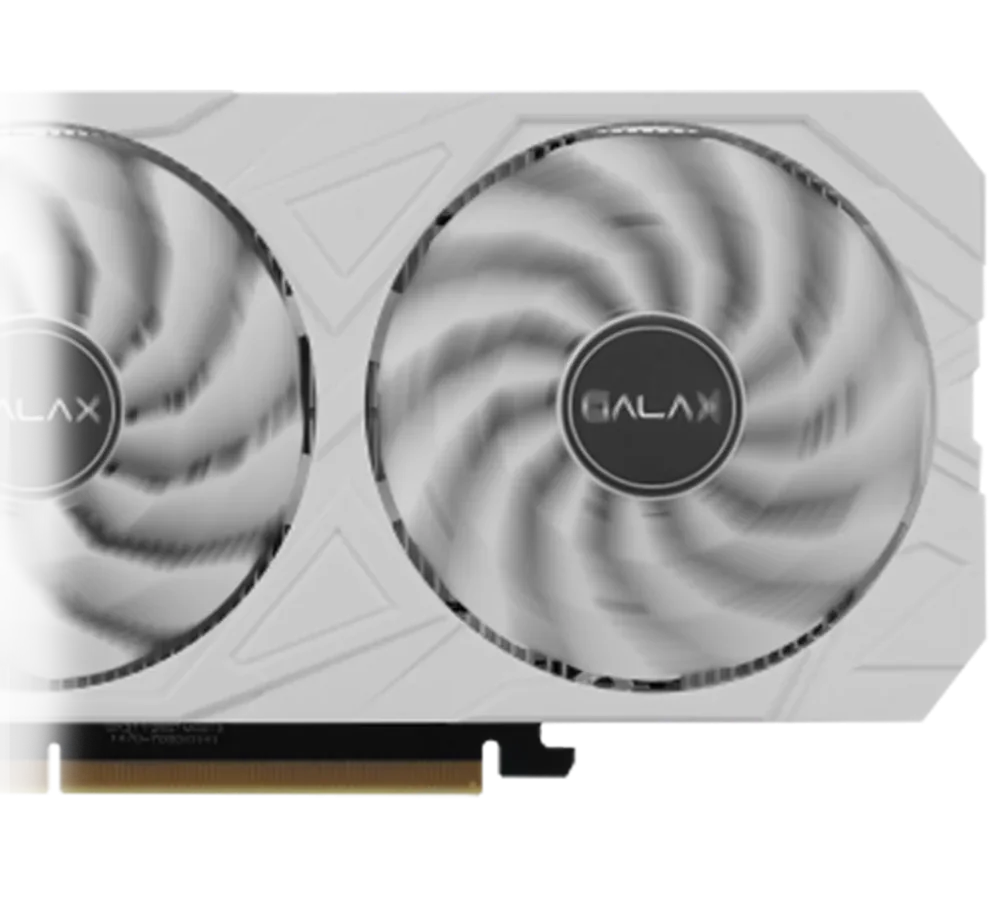
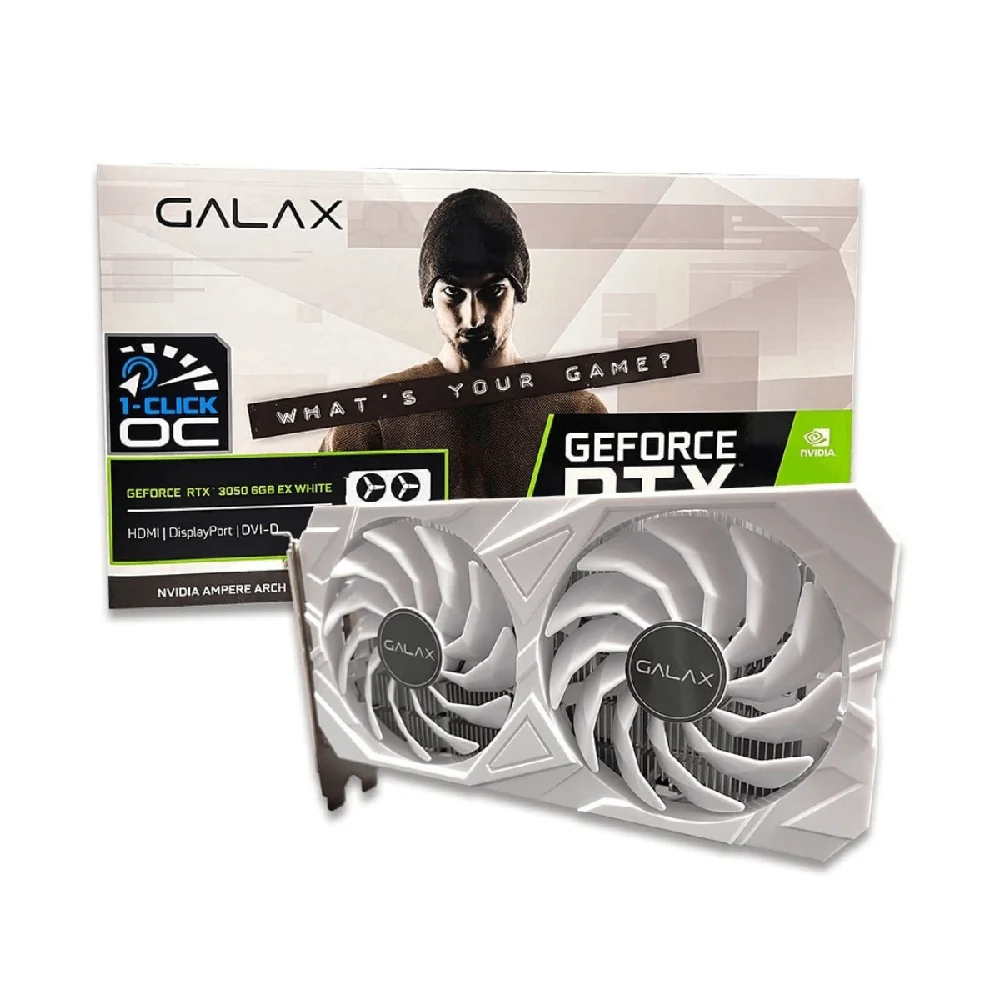
Use full gpu-001 product photo

diff --git a/PROJECT_STATUS.md b/PROJECT_STATUS.md
@@ -465,3 +465,8 @@ After owner review, continue with photos for other categories. Laptops after com
 После визуальной проверки заменены четыре широких промо-баннера видеокарт (gpu-001, gpu-002, gpu-004, gpu-006) на полноразмерные изображения точных моделей. Для gpu-002 использован точный снимок SE Computer с подтверждённым кодом производителя 56ISN8MDCQWH; остальные новые снимки для видеокарт взяты с официального домена GALAX. У gpu-005 удалён дополнительный широкий баннер, оставлено чистое основное фото.
 
 У cooling-018 удалены три одинаковых декоративных фоновых изображения, в галерее оставлены только фотографии самого DeepCool CK-11508. После контроля в комплектующих осталось 202 локальных WebP-файла; остальные товары, для которых точный источник не подтверждён, по-прежнему используют заглушки. Цены, характеристики, ID, SKU, фильтры, карточки и товары ноутбуков, моноблоков и системных блоков не изменялись.
+
+
+## Дополнительная проверка gpu-001 (2026-10-21)
+
+Для A76D Black GF RTX3050 6GB EX White заменено изображение, у которого край платы касался границы исходного render-файла. Использовано точное фото модели со страницы товара надёжного магазина; плата полностью помещается в кадре.
